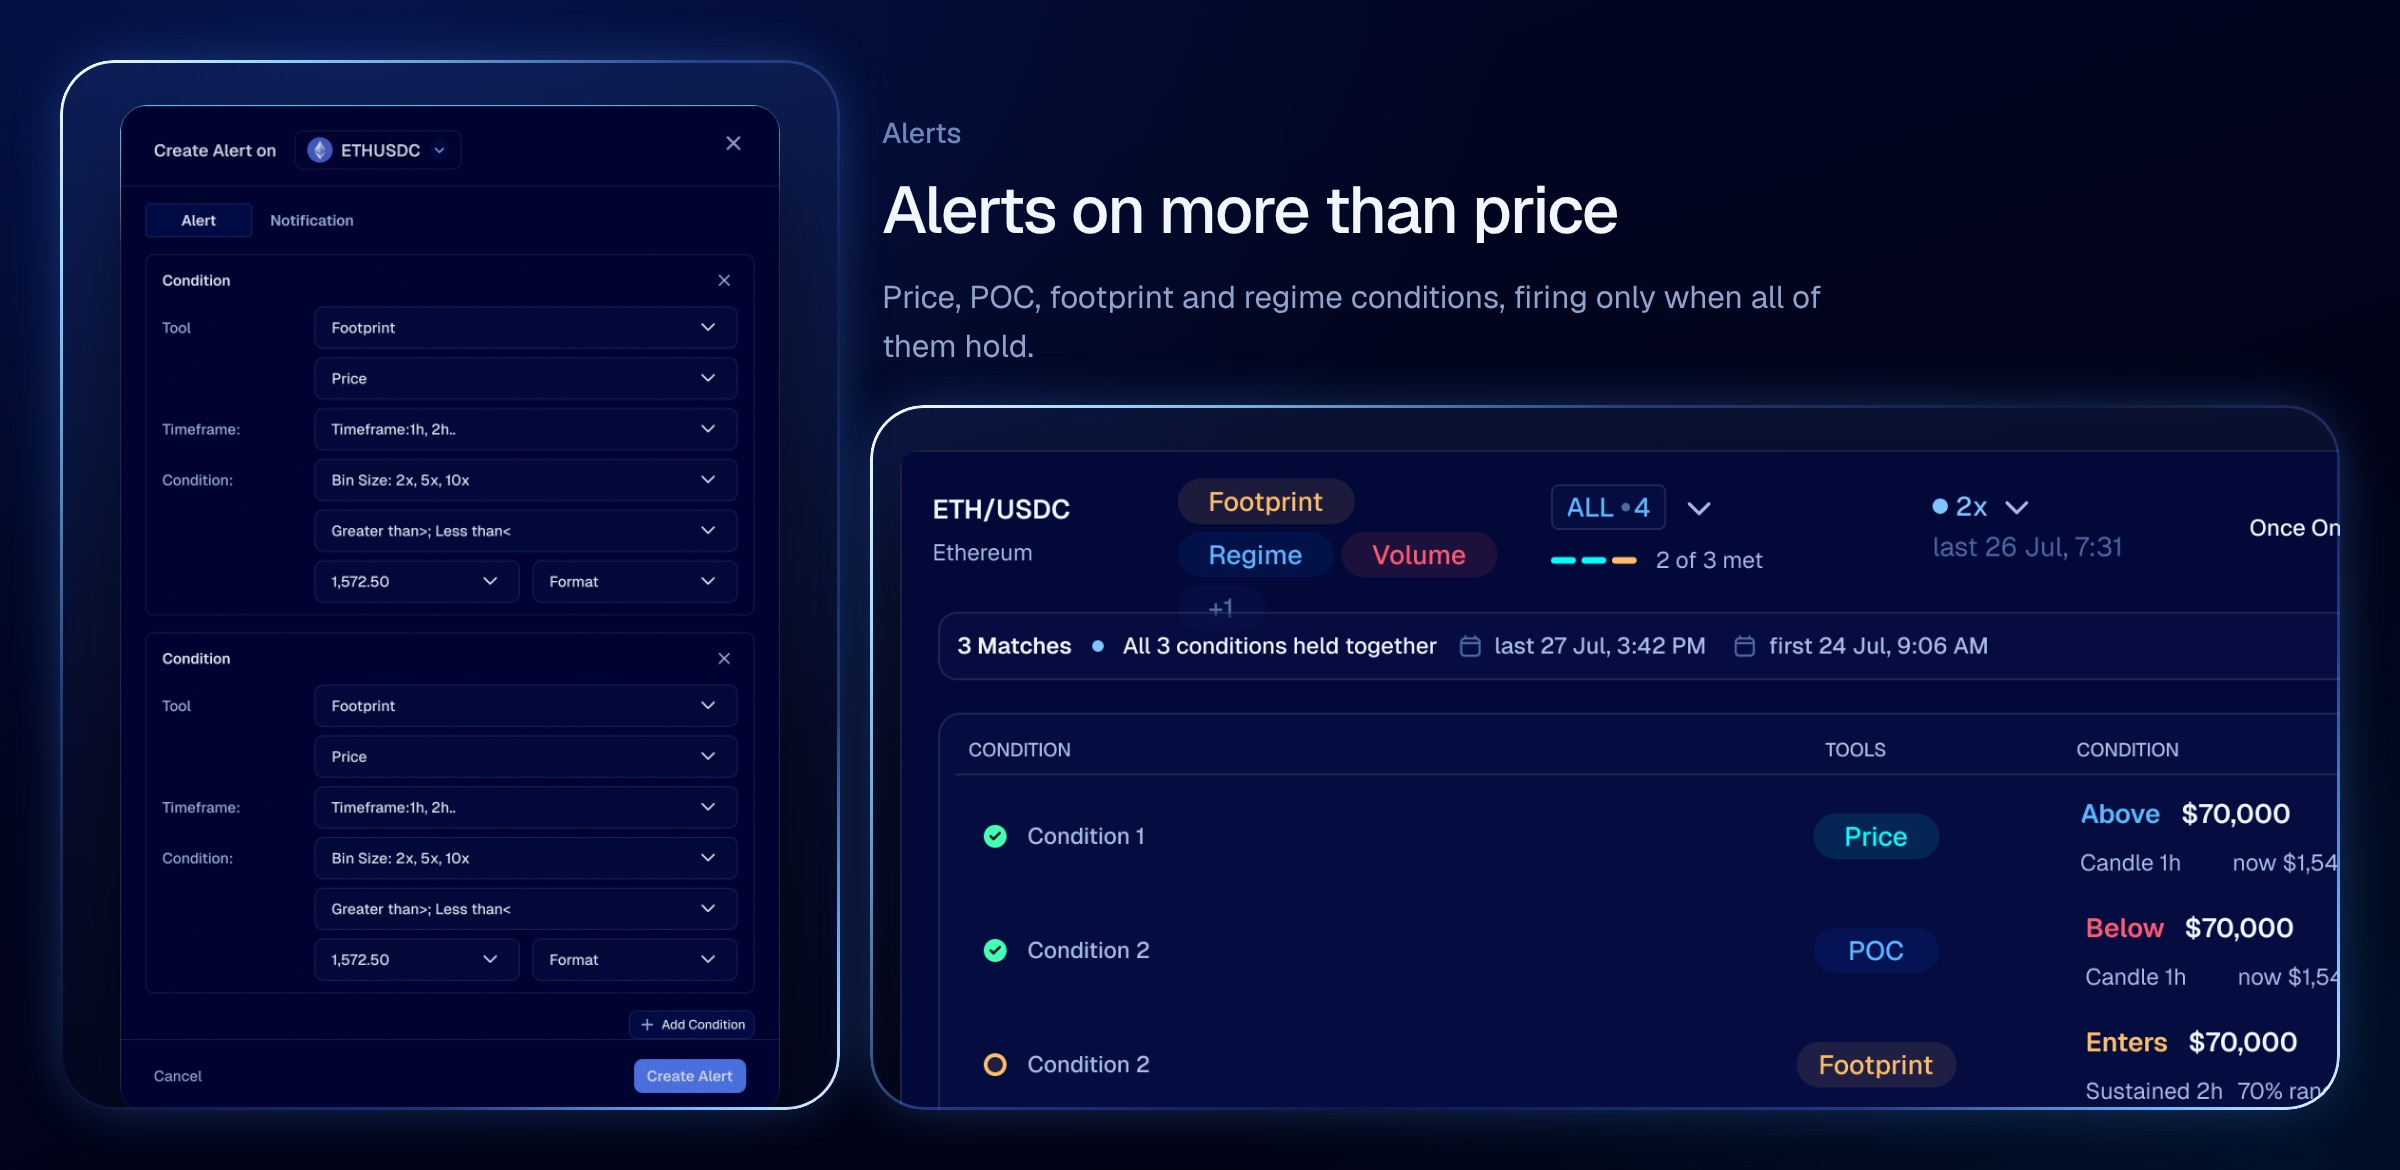
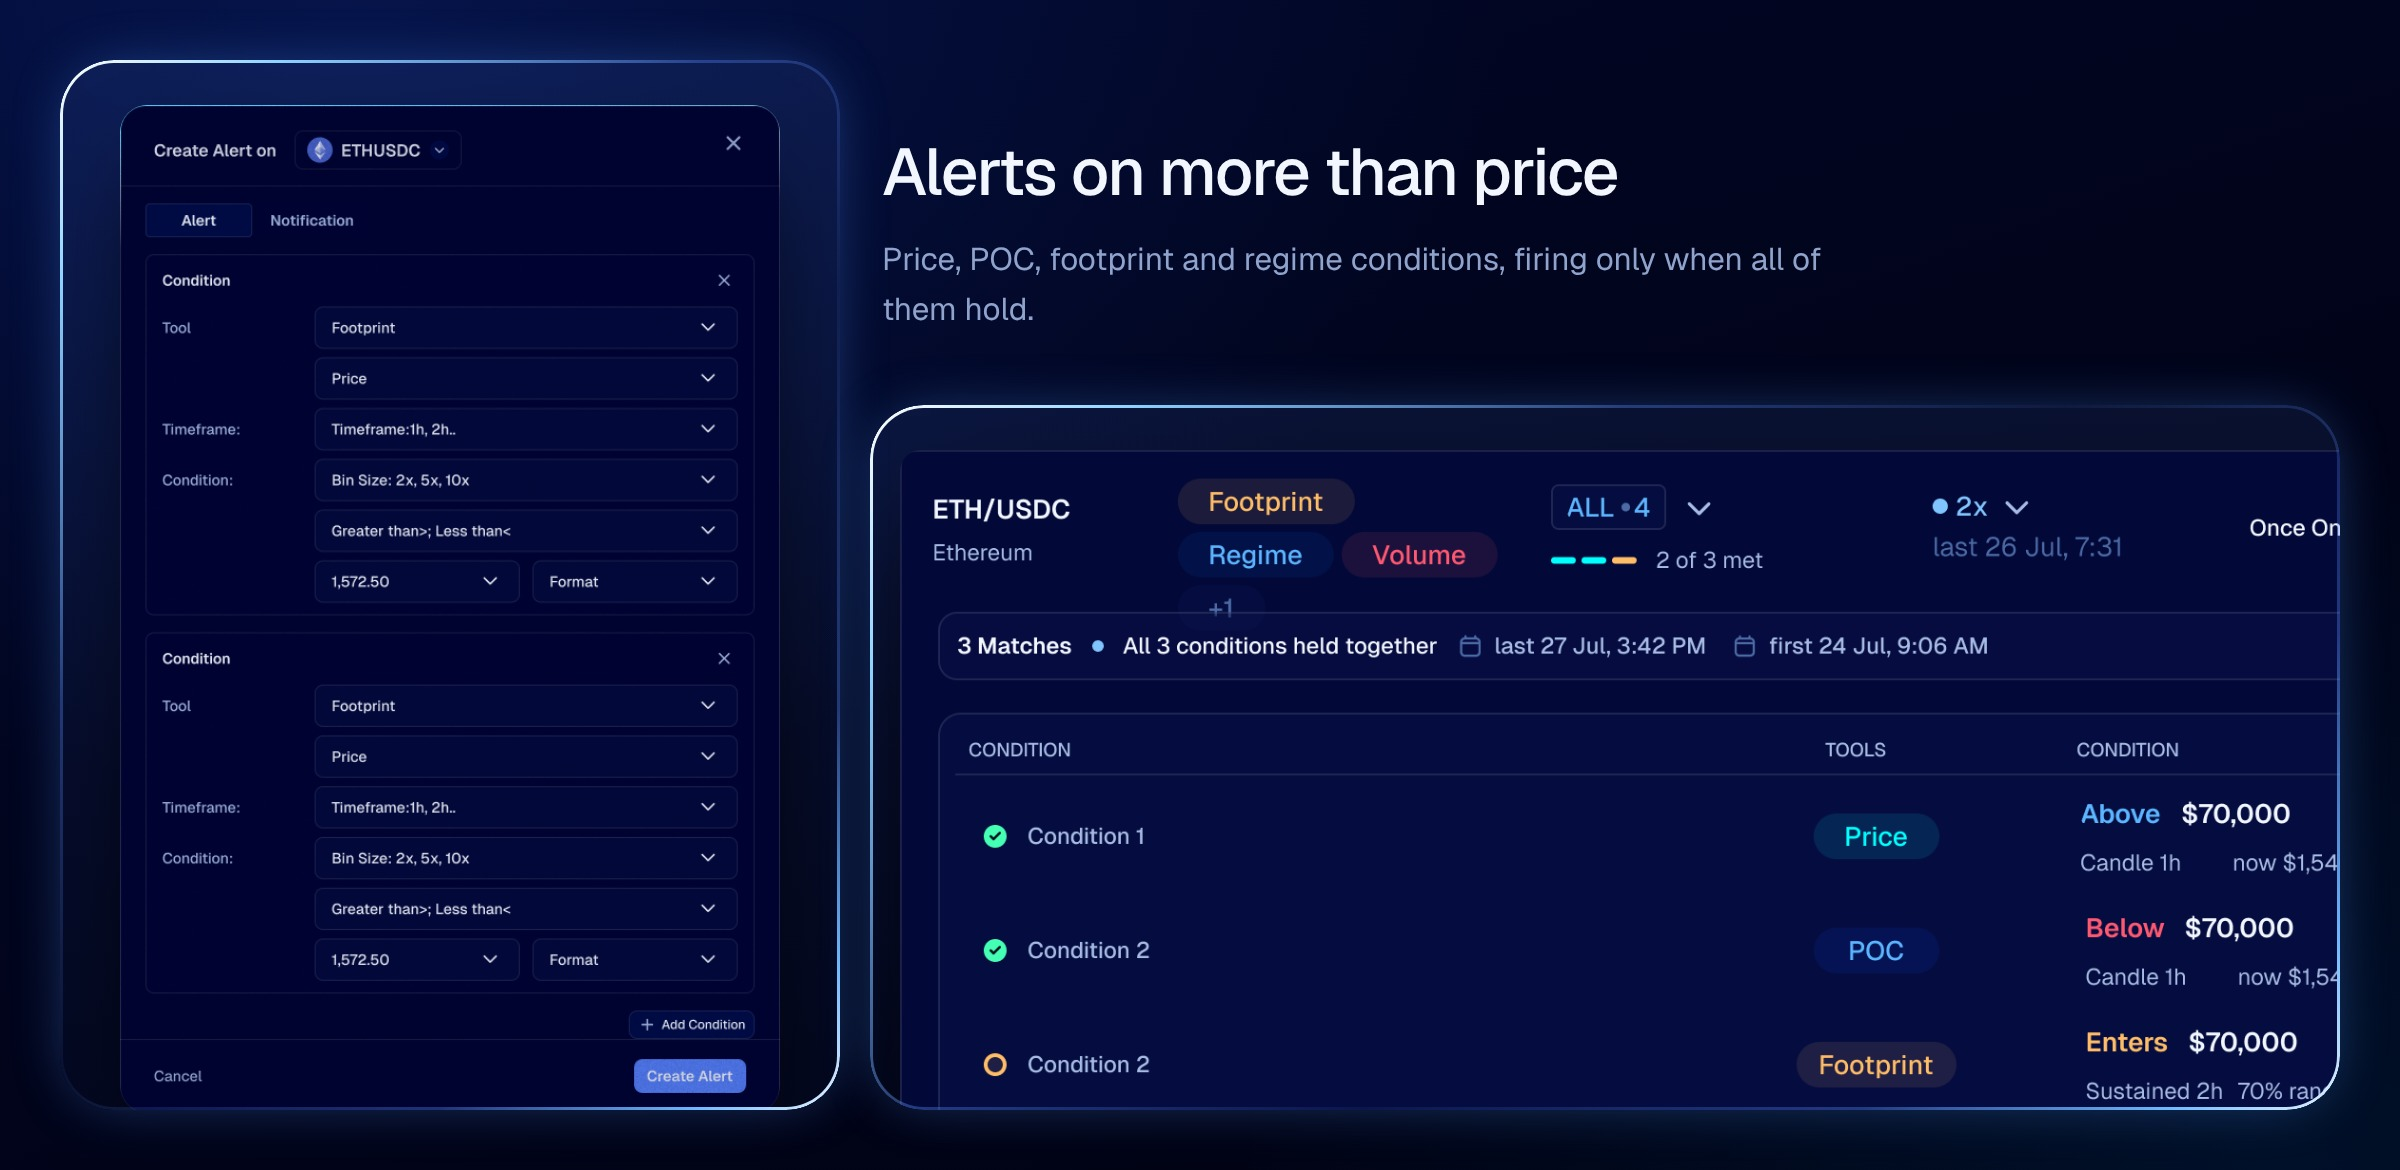
Jaadu: drop the small labels above the module titles
Claude-Session: https://claude.ai/code/session_01L48ecgvWMXiCwrAdC3aGTG

Changed region(s): [[0.3438, 0.0923, 0.75, 0.3077]]

diff --git a/scripts/mockups/jaadu/features.html b/scripts/mockups/jaadu/features.html
@@ -25,7 +25,7 @@ const F='feat/'
 const M=(id,h,inner)=>`<div class="bd" id="${id}" style="height:${h}px">${inner}</div>`
 const tile=(l,t,w,h,inner)=>`<div class="tl rim" style="left:${l}px;top:${t}px;width:${w}px;height:${h}px">${inner}</div>`
 const img=(n,w,l,t,r=18)=>`<img src="${F}${n}.png" style="left:${l}px;top:${t}px;width:${w}px;border-radius:${r}px">`
-const ex=(l,t,w,h,lb,title,body,items=[])=>`<div class="ex" style="left:${l}px;top:${t}px;width:${w}px;height:${h}px"><div class="lb">${lb}</div><h3>${title}</h3><p>${body}</p></div>`
+const ex=(l,t,w,h,lb,title,body,items=[])=>`<div class="ex" style="left:${l}px;top:${t}px;width:${w}px;height:${h}px"><h3>${title}</h3><p>${body}</p></div>`
 const call=(x1,y1,x2,y2,c,txt,cx,cy)=>`<svg class="dl" width="1600" height="1200"><path d="M${x1} ${y1} L${x2} ${y2}" fill="none" stroke="#9FB4E8" stroke-width="3" stroke-dasharray="3 9" stroke-linecap="round"/><circle cx="${x1}" cy="${y1}" r="9" fill="${c}" stroke="#fff" stroke-width="3"/></svg><div class="chip" style="--c:${c};left:${cx}px;top:${cy}px"><i></i>${txt}</div>`
 const S=[]
 const T=(l,t,w,lb,title,body)=>ex(l,t,w,230,lb,title,body)
